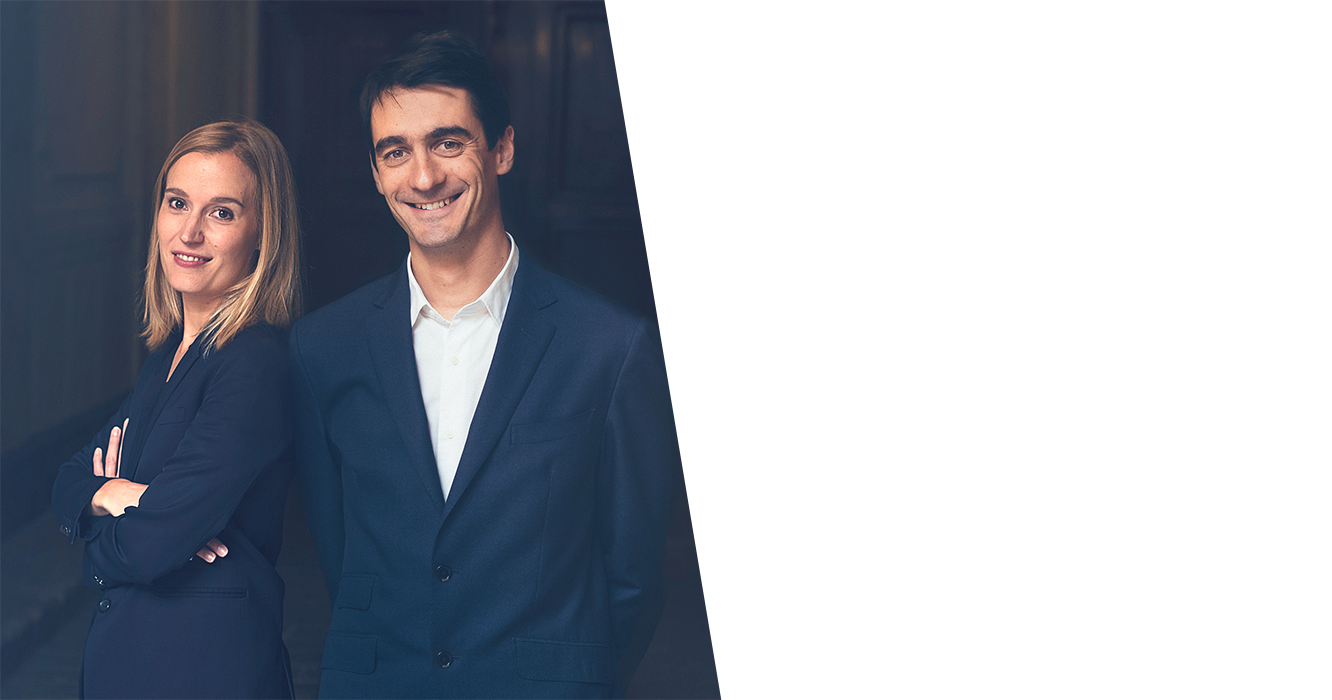
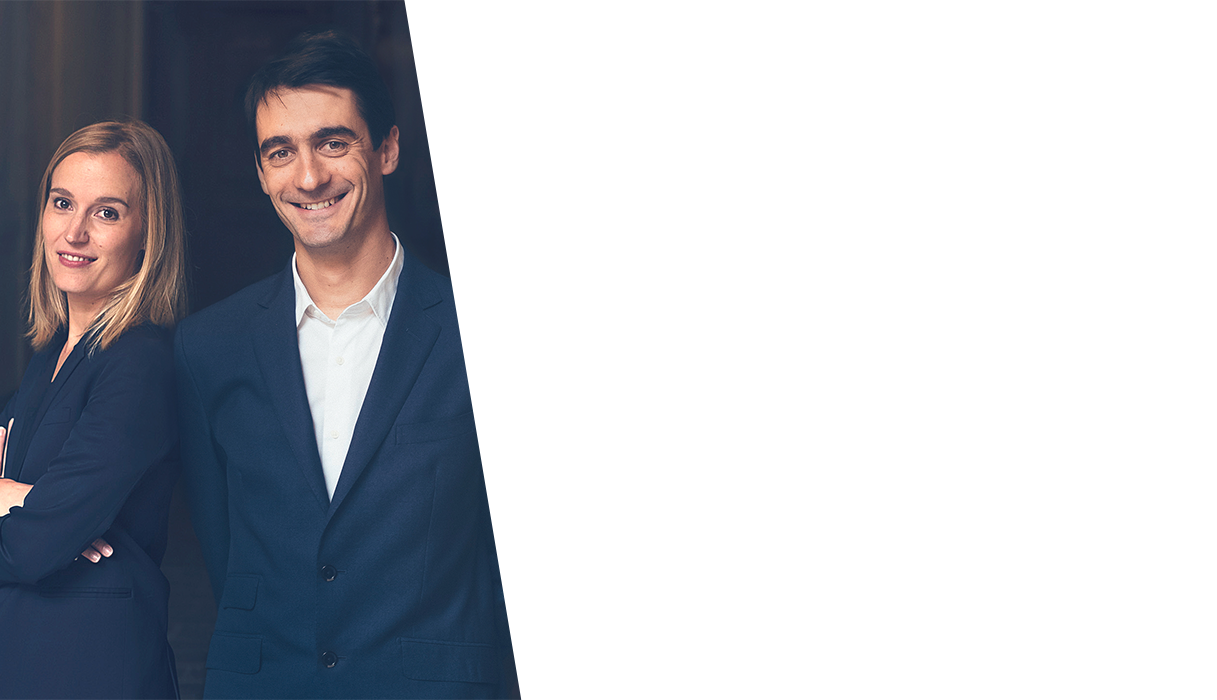
add image

diff --git a/app/assets/stylesheets/pages/_contact.scss b/app/assets/stylesheets/pages/_contact.scss
@@ -94,13 +94,26 @@
   }
 }
 
-@media screen and (min-width: 1200px) {
+@media screen and (min-width: 992px) {
   .avatar-contact {
     display: none;
   }
 }
 
-@media screen and (max-width: 1199px) {
+@media screen and (max-width: 1275px) {
+  .card-contact {
+    background-position: left;
+  }
+}
+
+@media screen and (max-width: 1124px) {
+  .card-contact {
+    background-image: image-url("clem-et-mat-tablet.png");
+    background-position: left;
+  }
+}
+
+@media screen and (max-width: 991px) {
   .card-contact {
     background-image: none;
     padding: 15px;
